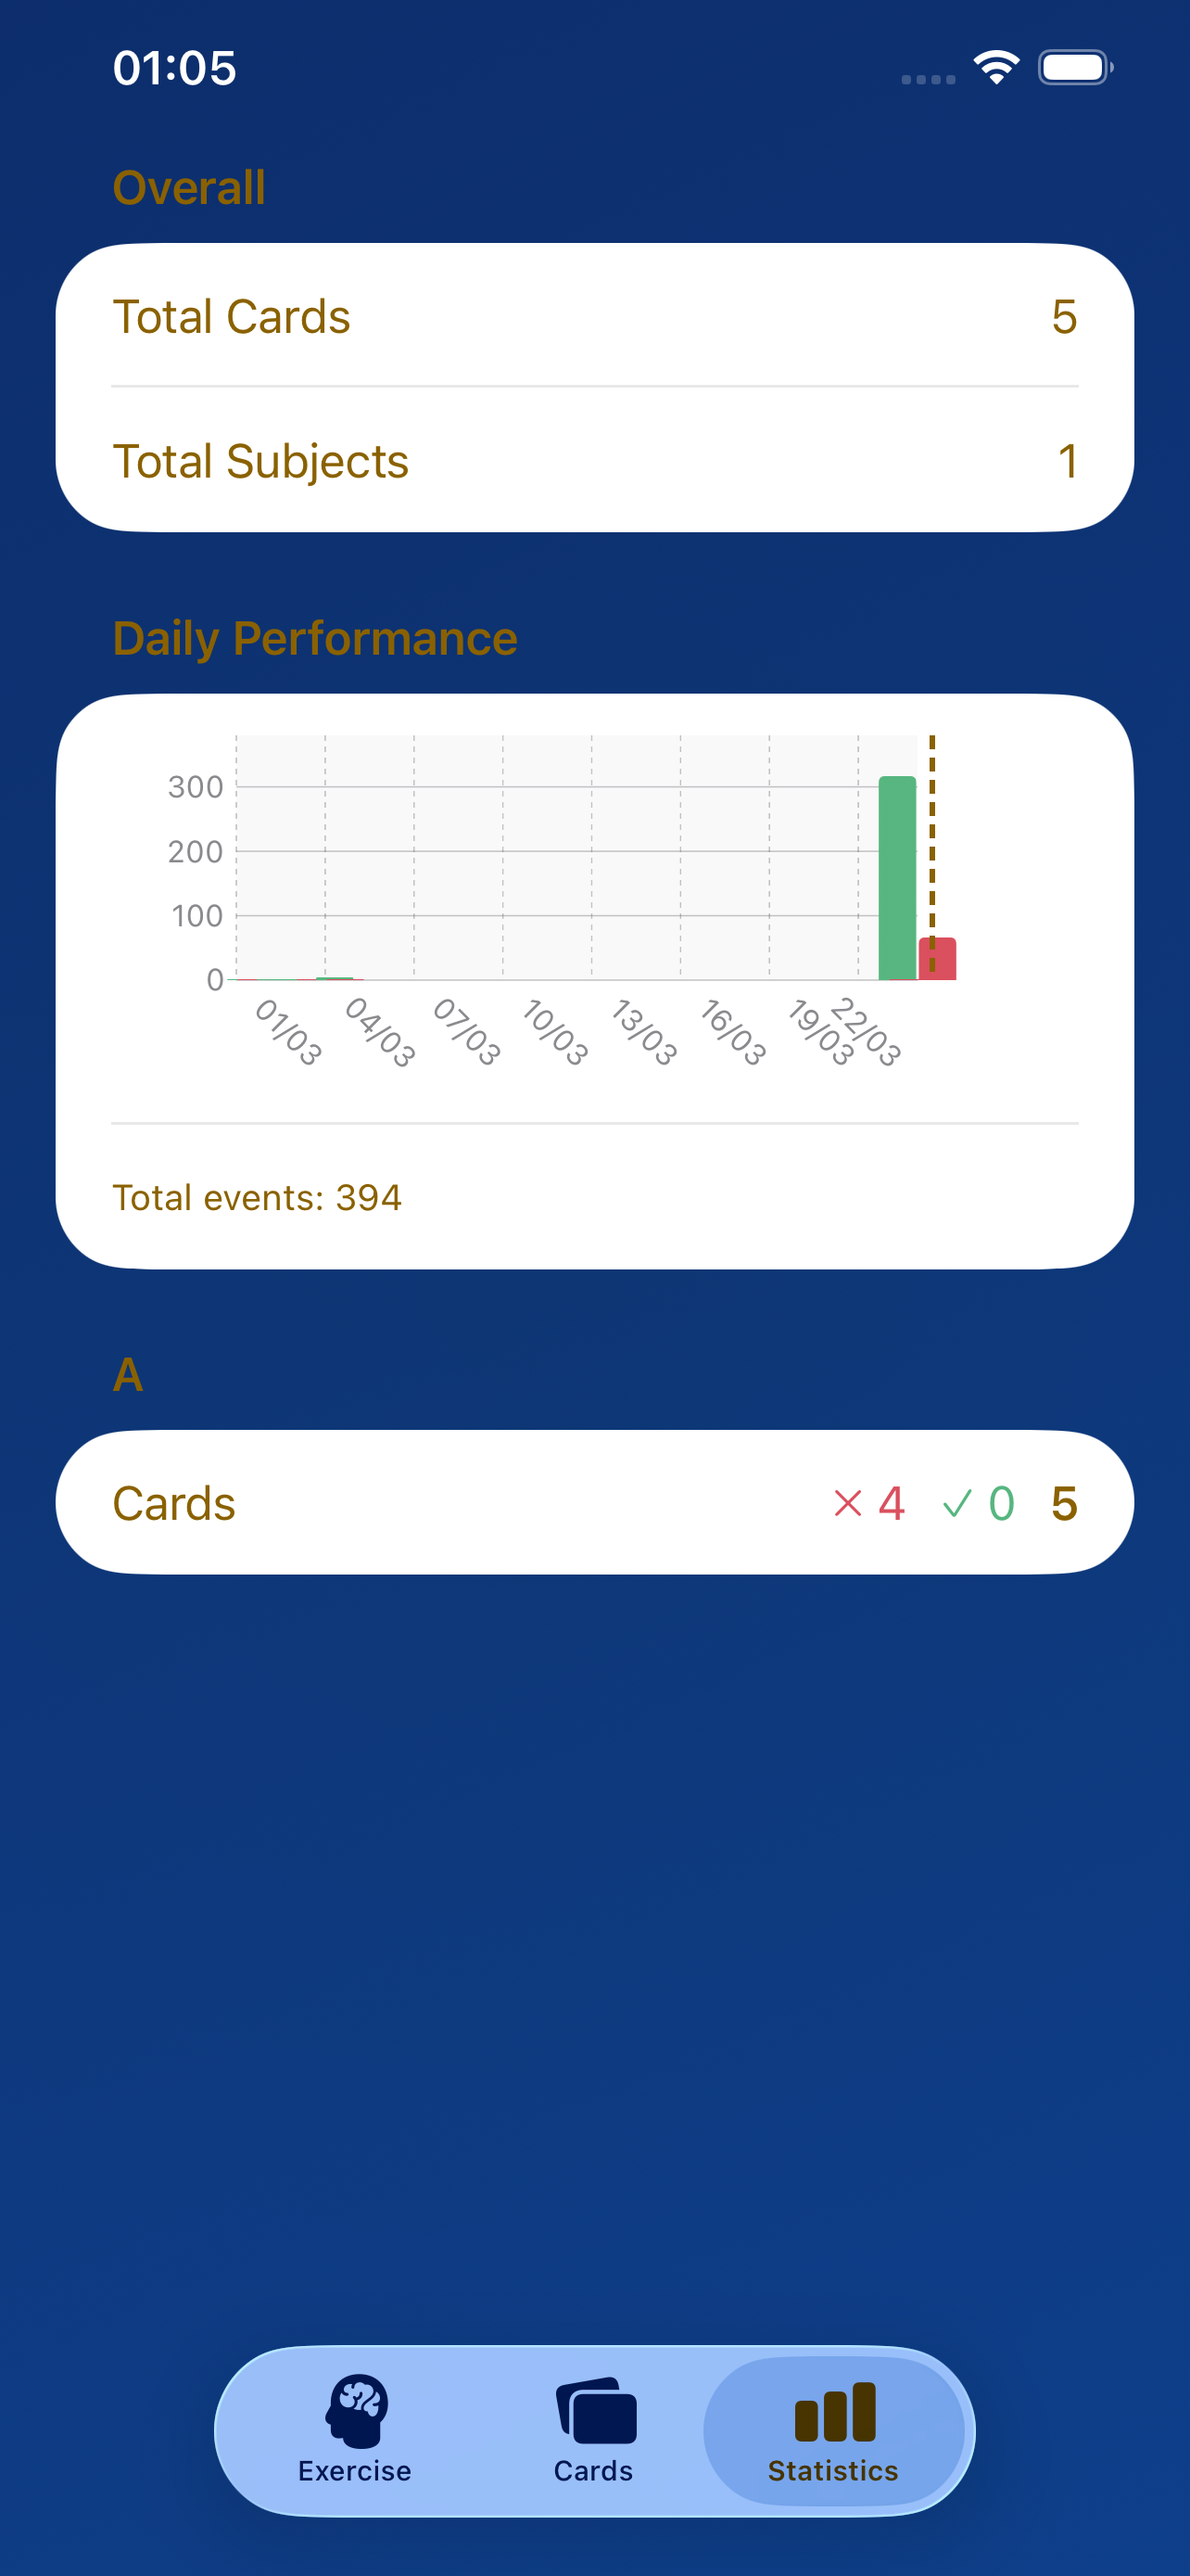
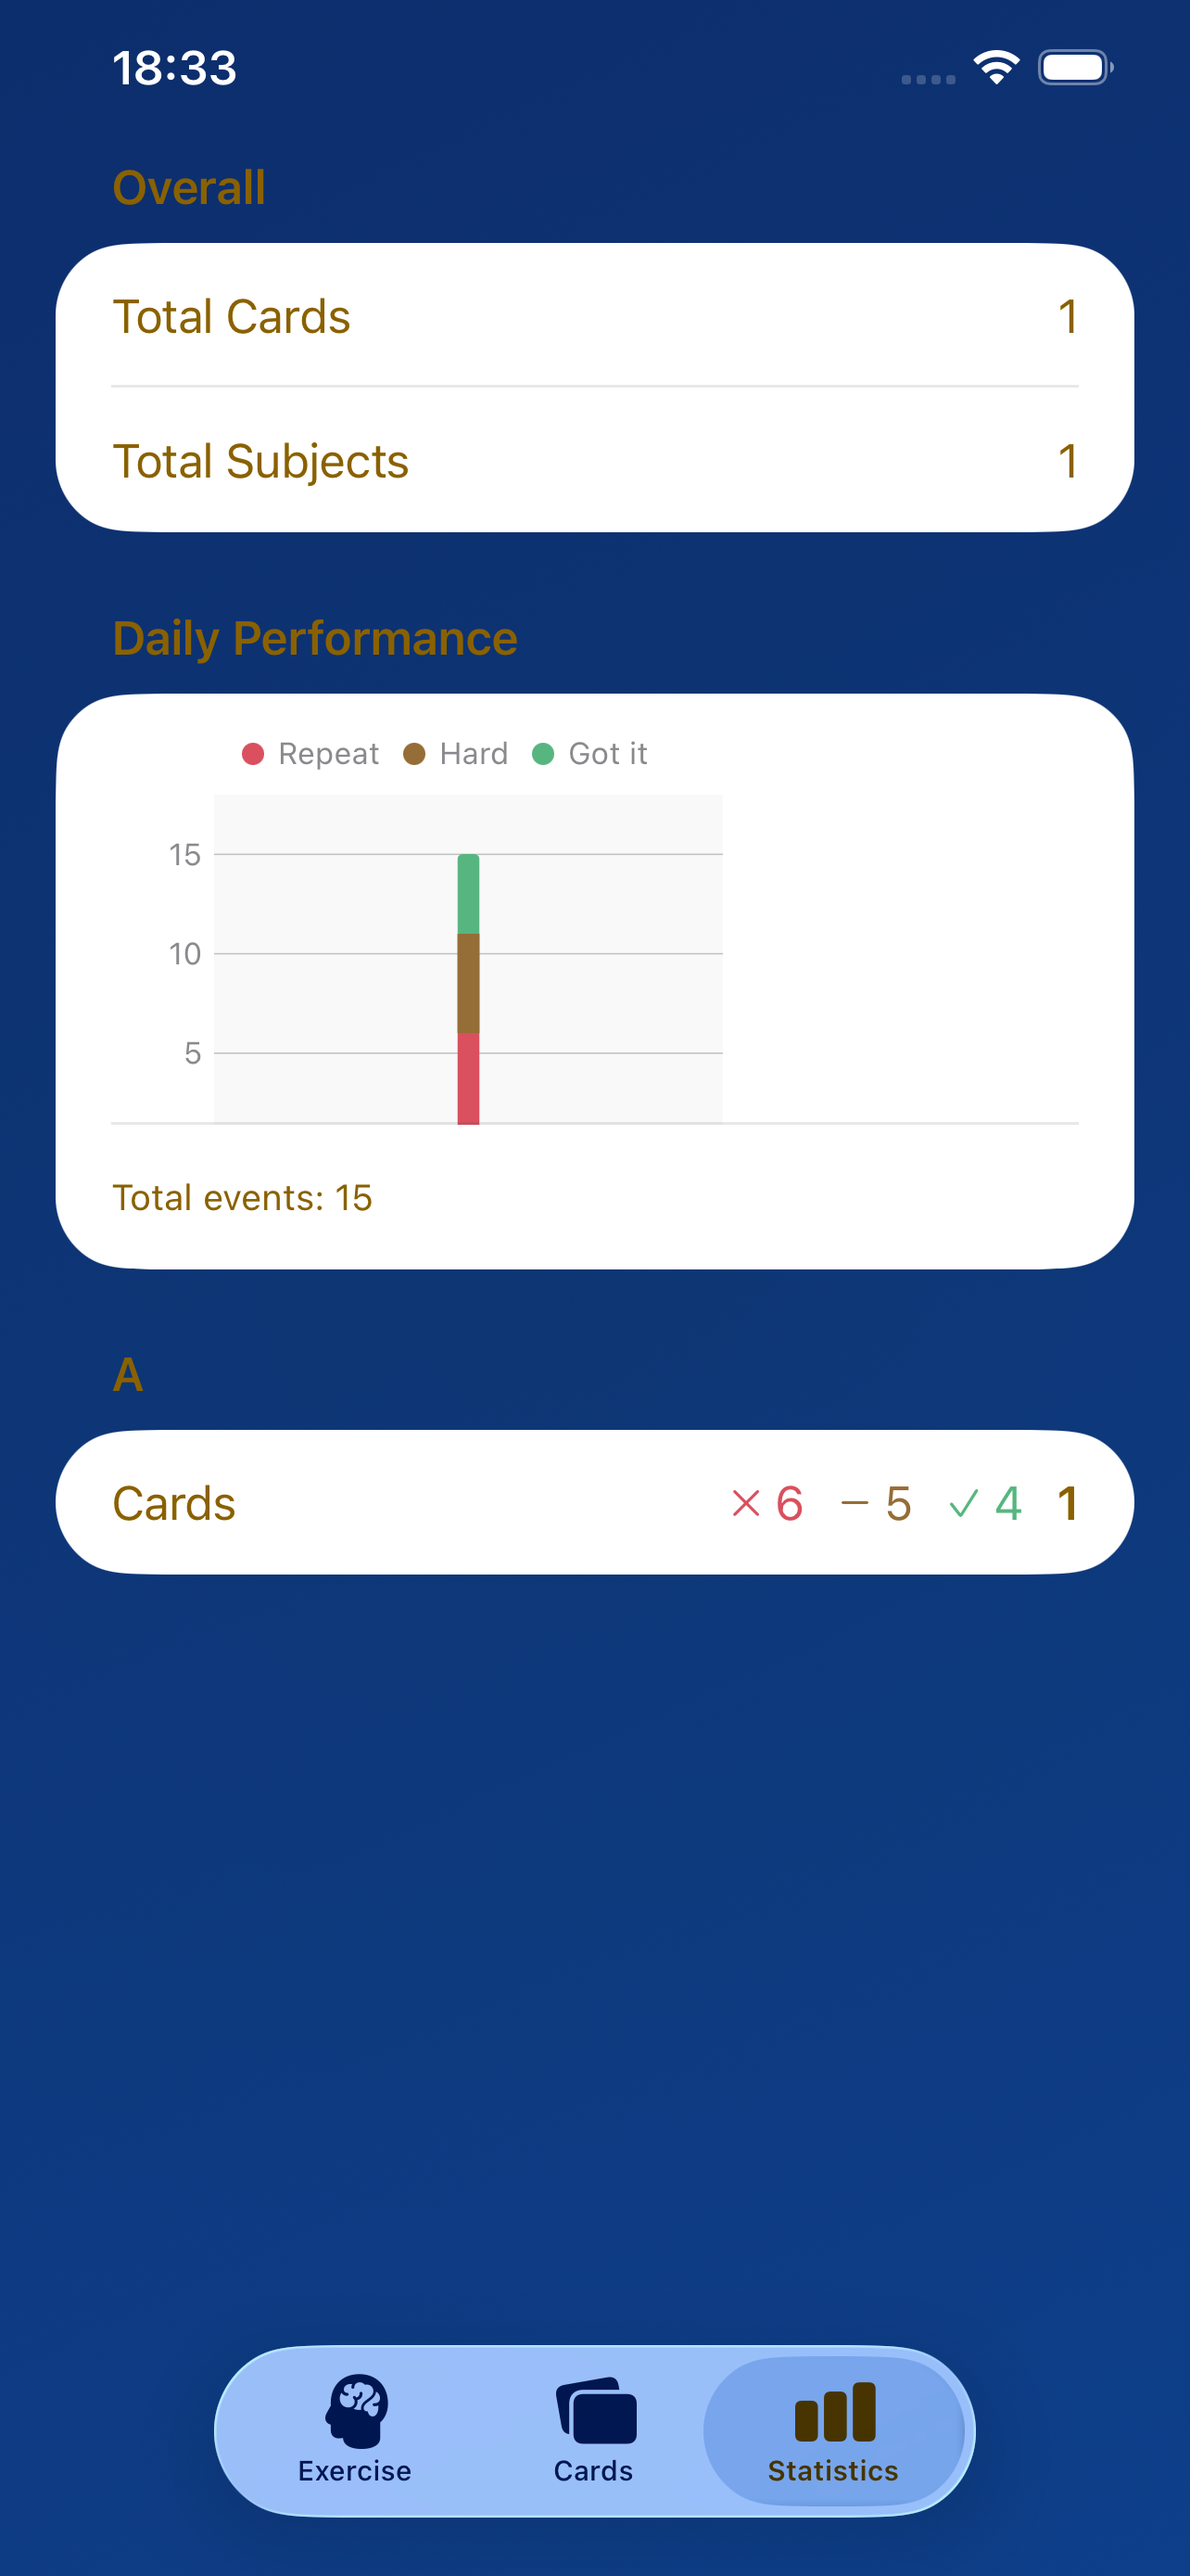
Add card review option (#33)

diff --git a/Elorize/Statistics/StatisticsView.swift b/Elorize/Statistics/StatisticsView.swift
@@ -3,11 +3,11 @@ import SwiftData
 internal import Combine
 import Charts
 
-// Data structure for chart
+// Data structure for chart with category for grouping
 fileprivate struct ReviewChartData: Identifiable {
     let id = UUID()
     let date: Date
-    let type: String
+    let category: String
     let count: Int
 }
 
@@ -216,18 +216,12 @@ private extension StatisticsView {
   ) -> some View {
       // Filter stats to only show those within the domain
       let filteredStats = stats.filter { fullDomain.contains($0.date) }
-      
-      // Transform data into series format for grouped bars with manual offsets
+      // Transform data into series format for stacked bars
       let chartData: [ReviewChartData] = filteredStats.flatMap { stat in
-          // Create offset dates to position bars side-by-side
-          // Each bar is offset by a few hours to create the grouped effect
-          let baseDate = stat.date
-          let hoursOffset: TimeInterval = 3 * 3600 // 3 hours in seconds
-          
-          return [
-              ReviewChartData(date: Calendar.current.date(byAdding: .hour, value: -3, to: baseDate)!, type: "Repeat", count: stat.wrong),
-              ReviewChartData(date: baseDate, type: "Hard", count: stat.hard),
-              ReviewChartData(date: Calendar.current.date(byAdding: .hour, value: 3, to: baseDate)!, type: "Got it", count: stat.correct)
+          [
+              ReviewChartData(date: stat.date, category: "Repeat", count: stat.wrong),
+              ReviewChartData(date: stat.date, category: "Hard", count: stat.hard),
+              ReviewChartData(date: stat.date, category: "Got it", count: stat.correct)
           ]
       }
       
@@ -244,17 +238,16 @@ private extension StatisticsView {
       } else {
           labelStride = 1
       }
-      
+
       // Individual bar width
       let individualBarWidth: CGFloat = 8
       
       return Chart(chartData) { item in
           BarMark(
-              x: .value("Day", item.date, unit: .hour),
-              y: .value("Count", item.count),
-              width: .fixed(individualBarWidth)
+              x: .value("Day", item.date, unit: .day),
+              y: .value("Count", item.count)
           )
-          .foregroundStyle(by: .value("Type", item.type))
+          .foregroundStyle(by: .value("Category", item.category))
       }
       .chartForegroundStyleScale([
           "Repeat": errorColor,
